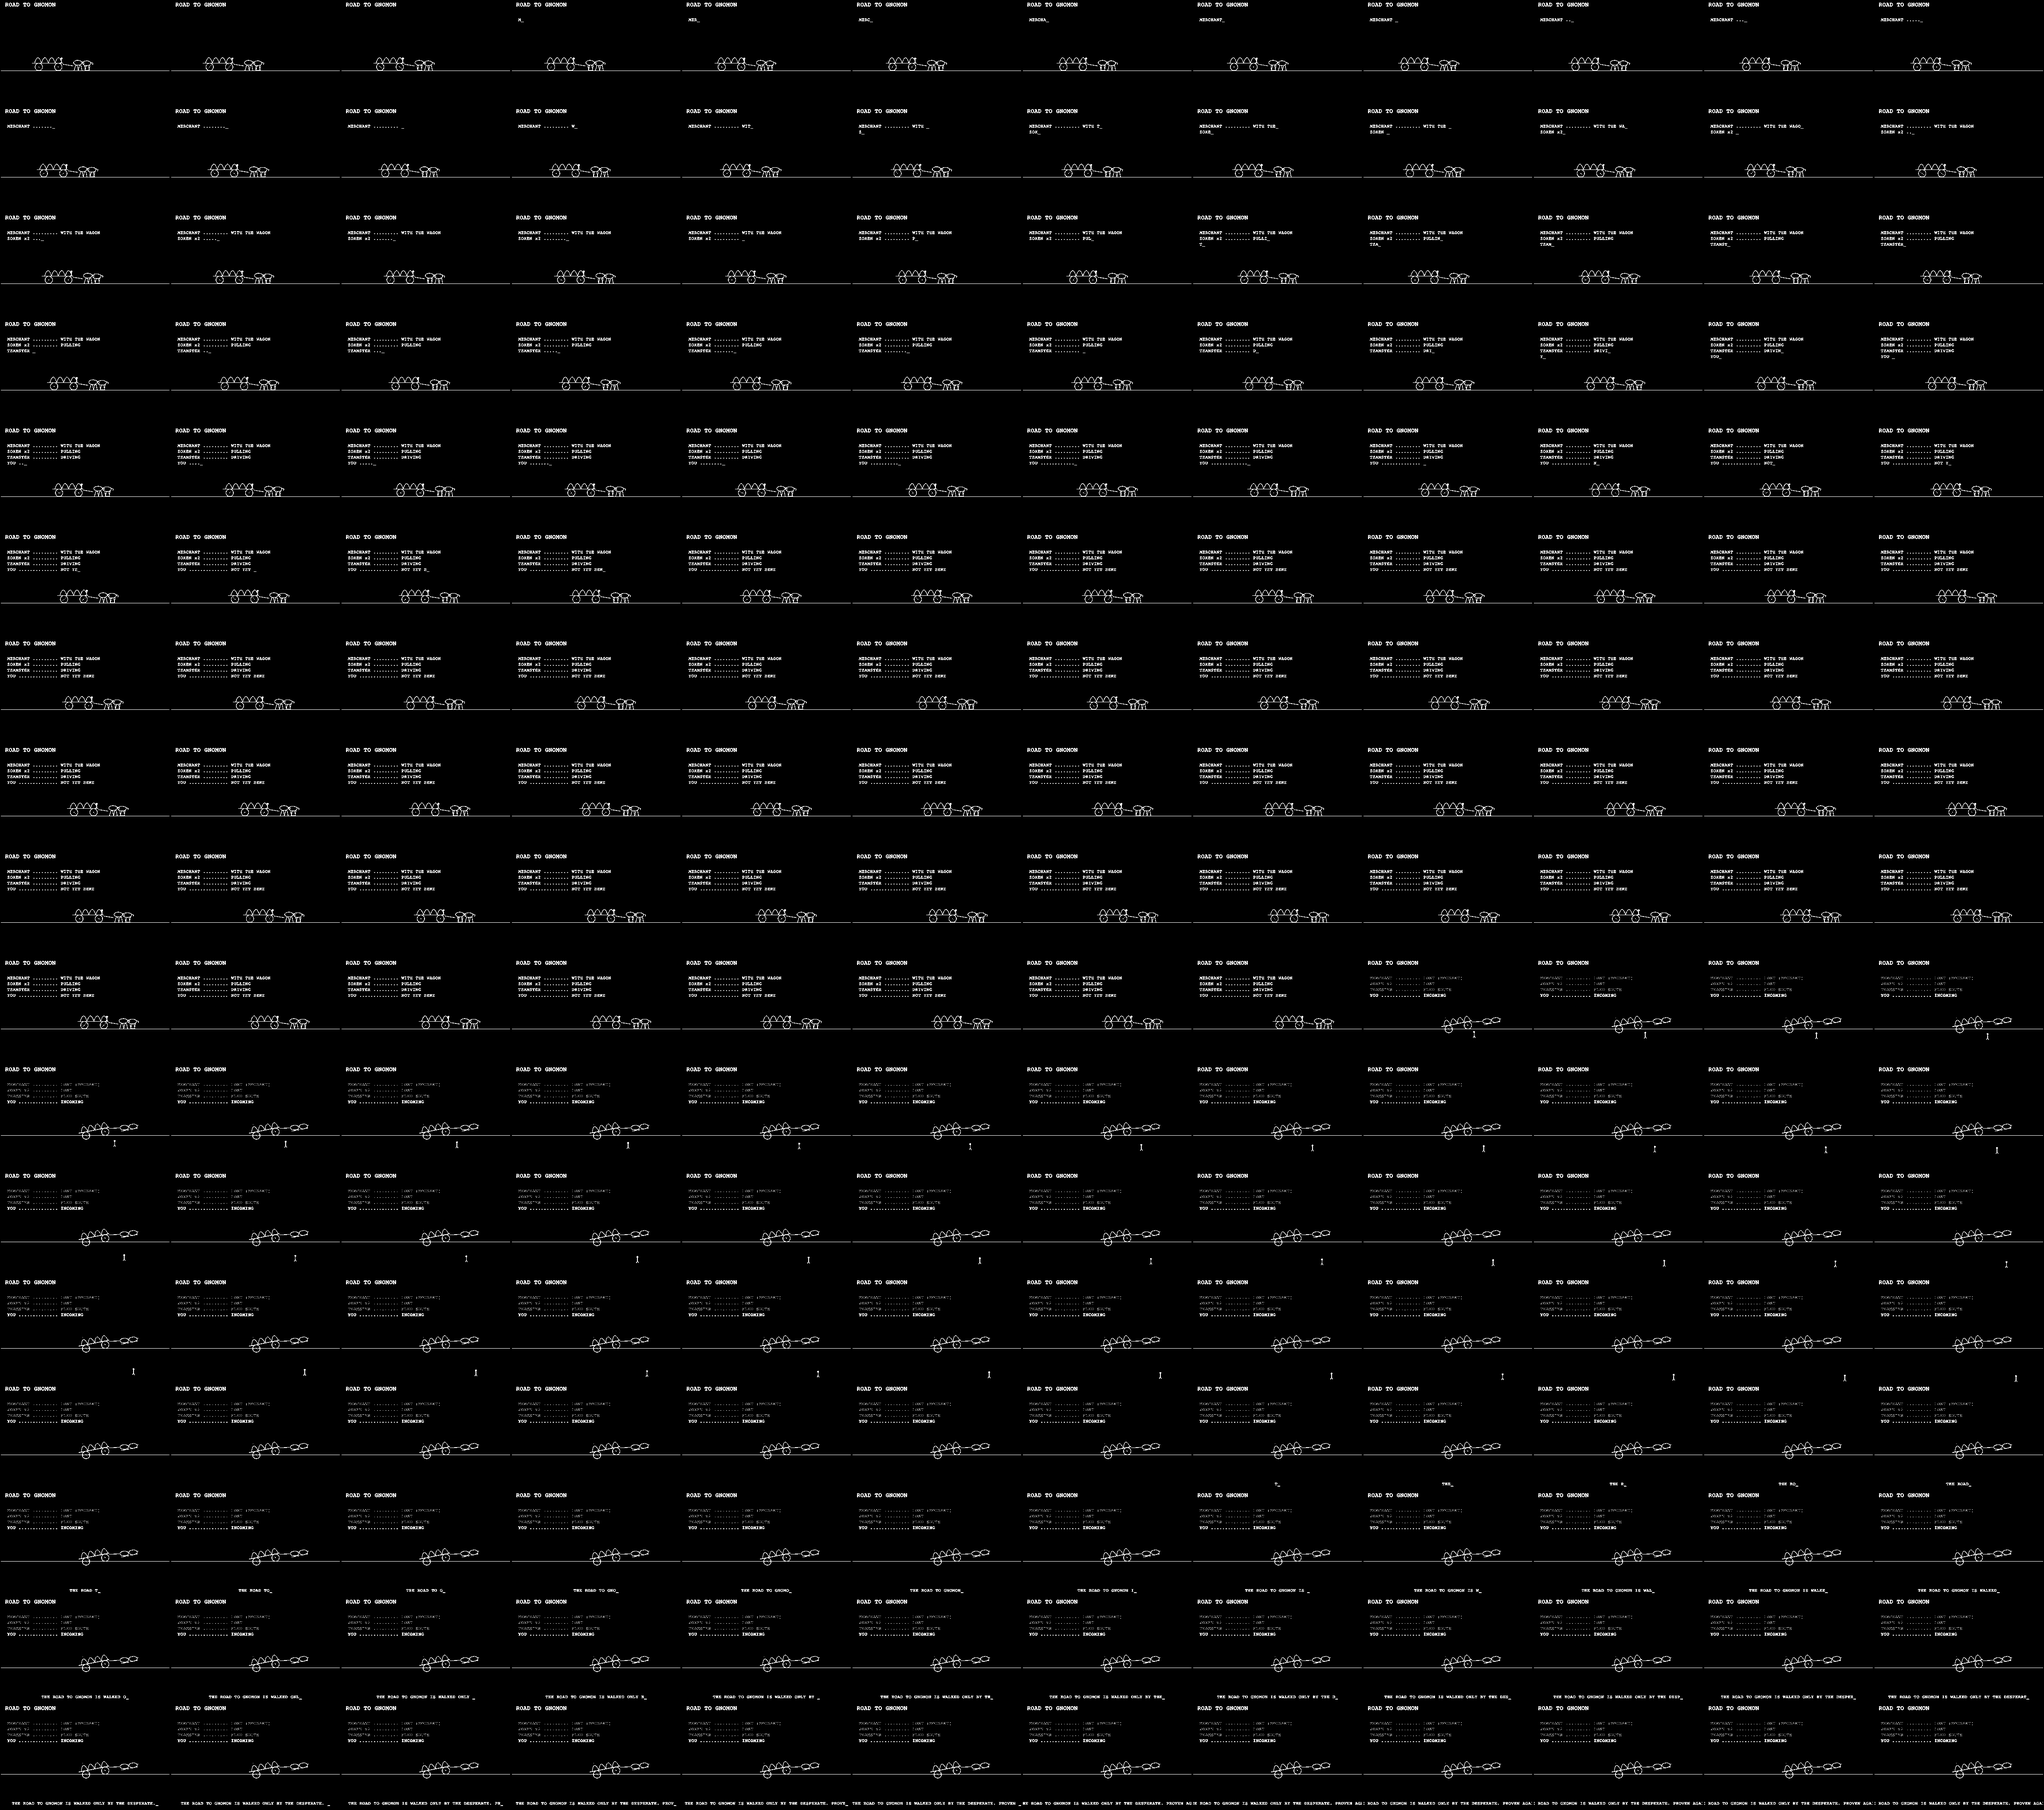
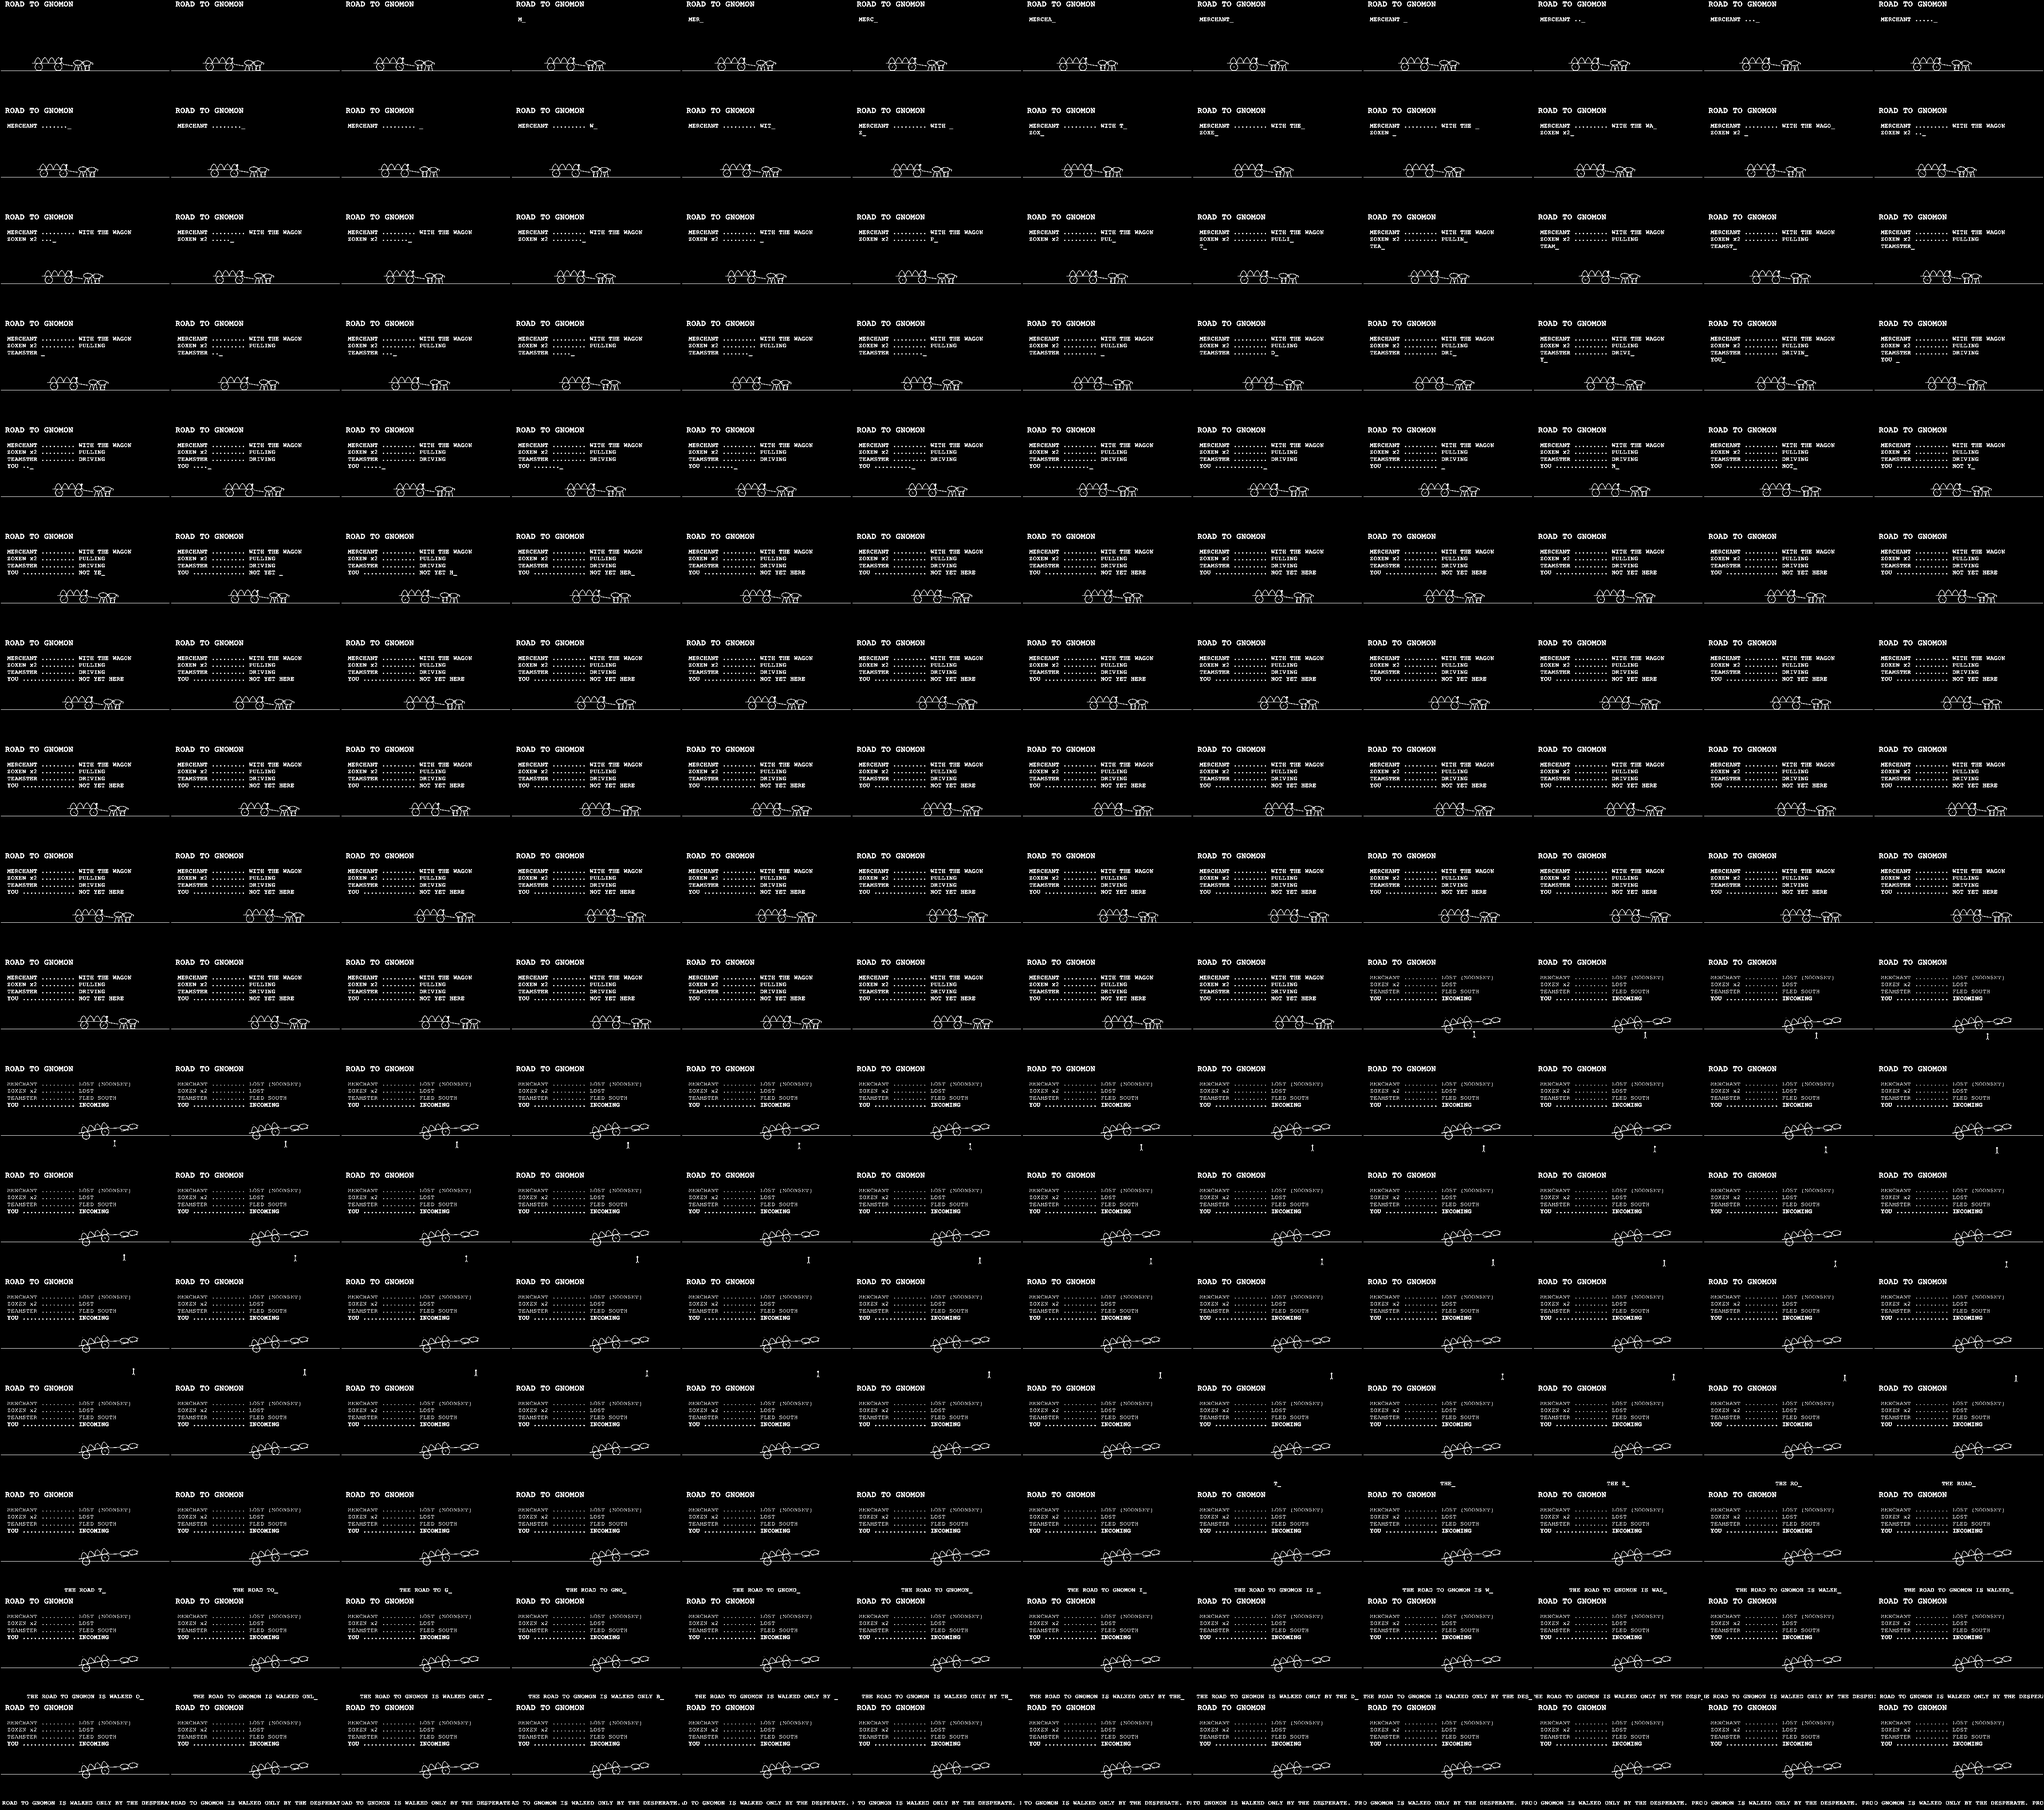
playdate: card type at 2.3x with column re-spacing (CCB)
1.7x was still squinting territory. Labels now scale 2.3x (~14 device
px) and, since that outgrows the reel's leading, the exporter
re-spaces any labels sharing a column (same x + anchor) so stacked
lines (the road's roster) spread instead of colliding. Long lines
clip at the card edge rather than shrink -- the right trade at this
size.

diff --git a/playdate/tools/export_figures.py b/playdate/tools/export_figures.py
@@ -64,6 +64,8 @@ def export(page, key, frames):
     # (Canvas-drawn text is untouched; those cards await small masters.)
     page.evaluate(
         """() => {
+          const K = 2.3;
+          const texts = [];
           document.querySelectorAll('#stage text').forEach((t) => {
             const y = parseFloat(t.getAttribute('y') || '0');
             if (t.getAttribute('text-anchor') === 'end' && y < 30) {
@@ -71,9 +73,29 @@ def export(page, key, frames):
               return;
             }
             const fs = parseFloat(t.getAttribute('font-size') || '10');
-            t.setAttribute('font-size', Math.round(fs * 1.7));
+            const nfs = Math.round(fs * K);
+            t.setAttribute('font-size', nfs);
             t.setAttribute('letter-spacing', '0.5');
+            texts.push({ t, y, fs: nfs });
           });
+          // bigger type needs more leading: labels sharing a column (same
+          // x + anchor) get re-spaced so they can't overlap
+          const cols = {};
+          texts.forEach((e) => {
+            const key = (e.t.getAttribute('text-anchor') || 'start') + '|'
+              + (e.t.getAttribute('x') || '0');
+            (cols[key] = cols[key] || []).push(e);
+          });
+          for (const key in cols) {
+            const col = cols[key].sort((a, b) => a.y - b.y);
+            for (let i = 1; i < col.length; i++) {
+              const need = col[i - 1].y + col[i - 1].fs * 1.15;
+              if (col[i].y < need) {
+                col[i].y = need;
+                col[i].t.setAttribute('y', need);
+              }
+            }
+          }
         }"""
     )
     stage = page.locator("#stage")
